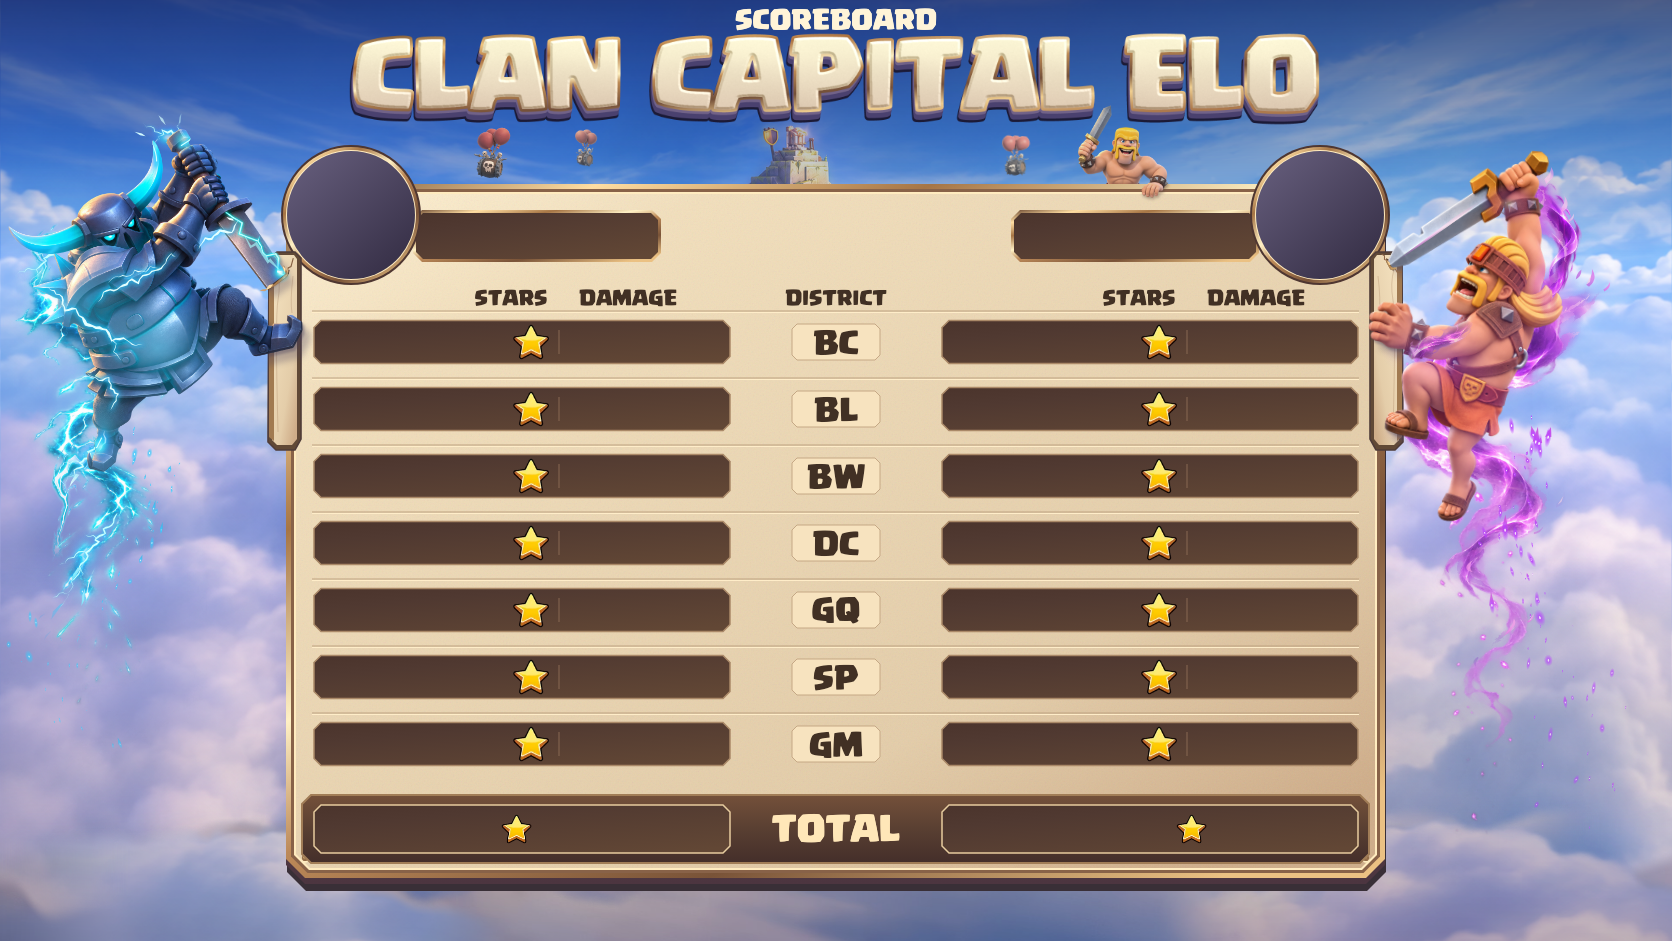
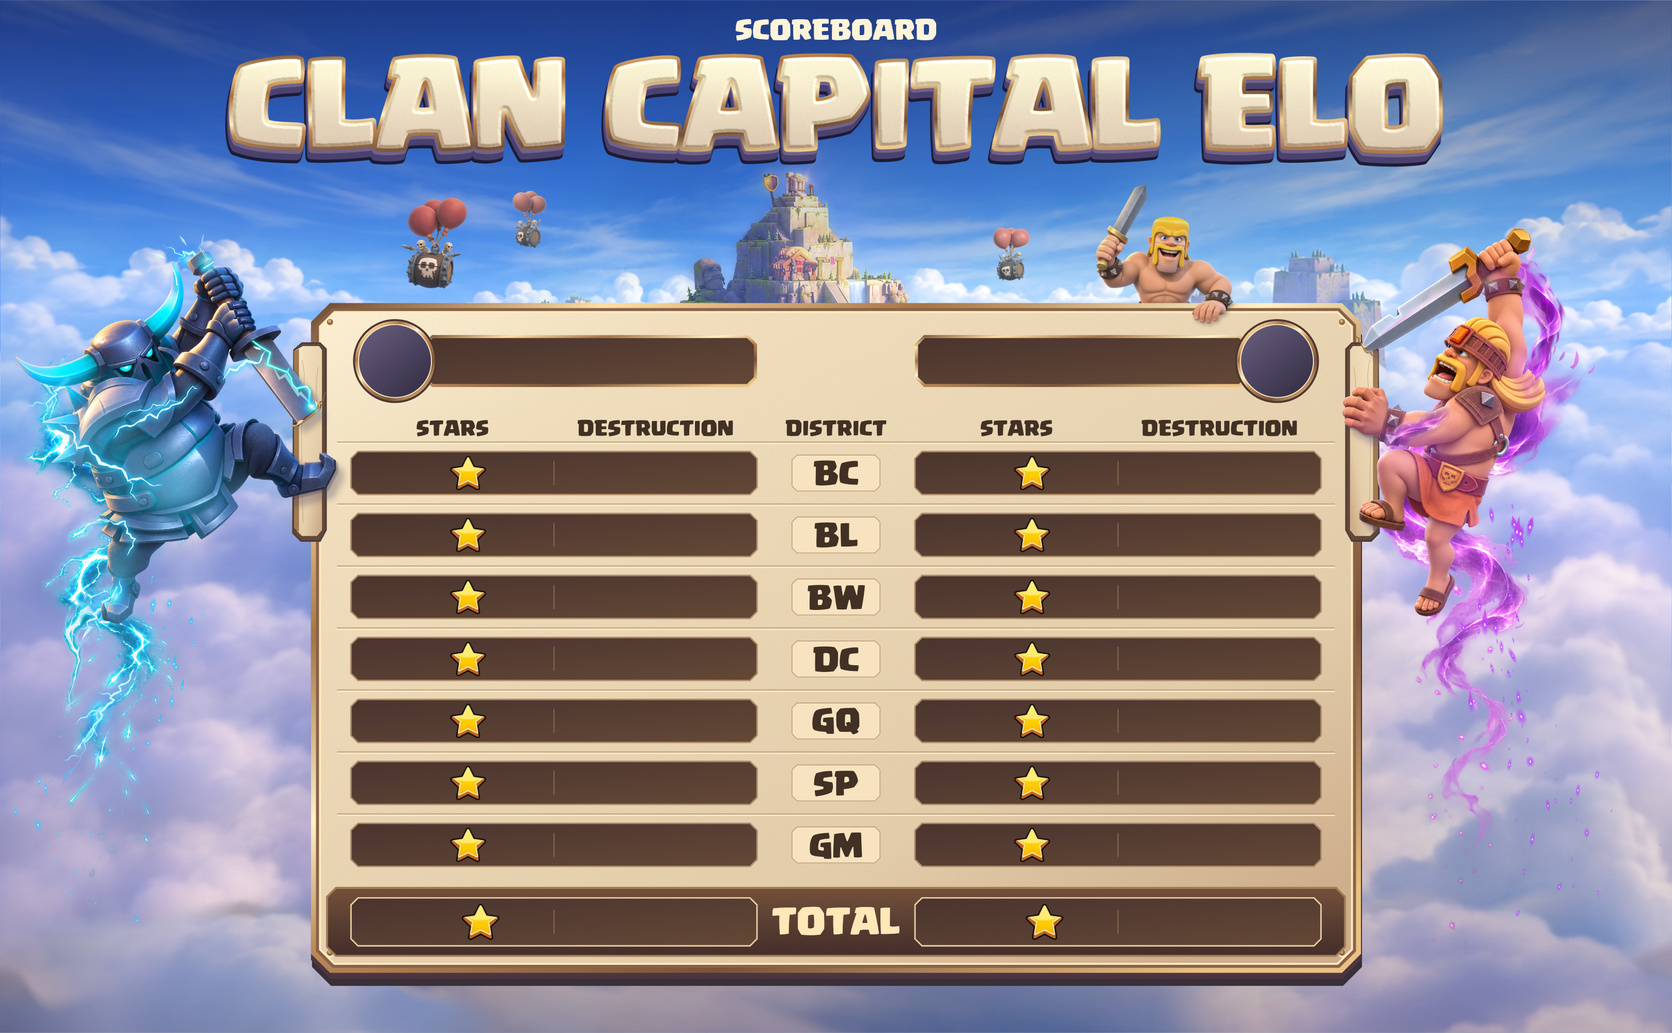
Update scoreboard

diff --git a/tests/test_final_scoreboard.py b/tests/test_final_scoreboard.py
@@ -12,14 +12,16 @@ from elo_bot.db.final_models import FinalResultSnapshot
 from elo_bot.features.finals.rendering import render_scoreboard
 
 
-# Interiors measured independently on the supplied clean artwork.
-NAME_PLATES = ((434, 214, 640, 258), (1032, 214, 1238, 258))
-ROW_Y = (342, 409, 476, 543, 610, 677, 744)
-SCORE_PLATES = tuple((x1, y - 22, x2, y + 22) for x1, x2 in
-    ((448, 532), (552, 704), (1076, 1160), (1180, 1332)) for y in ROW_Y)
-TOTAL_PLATES = ((425, 802, 509, 856), (533, 802, 685, 856),
-                (1102, 802, 1186, 856), (1204, 802, 1352, 856))
-AVATAR_BOXES = ((286, 150, 416, 280), (1255, 150, 1385, 280))
+NAME_PLATES = ((453, 336, 739, 390), (933, 336, 1219, 390))
+ROW_Y = (472, 535, 596, 659, 721, 783, 846)
+STAR_RIGHTS = (441, 1005)
+TOTAL_STAR_RIGHTS = (451.5, 1015.5)
+STAR_PLATES = tuple((right - 80, y - 22, right + 3, y + 22) for right in STAR_RIGHTS for y in ROW_Y)
+DESTRUCTION_PLATES = tuple((center - 80, y - 22, center + 81, y + 22)
+                           for center in (655, 1219) for y in ROW_Y)
+TOTAL_STAR_PLATES = ((371, 892, 455, 948), (935, 892, 1020, 948))
+TOTAL_DESTRUCTION_PLATES = ((565, 892, 746, 948), (1129, 892, 1310, 948))
+AVATAR_BOXES = ((359, 325, 431, 397), (1241, 325, 1313, 397))
 
 
 class TestFinalScoreboard(unittest.TestCase):
@@ -35,15 +37,22 @@ class TestFinalScoreboard(unittest.TestCase):
                 self.final.player_nicknames = names
                 with Image.open("assets/finals/elo_final_scoreboard.png") as template, \
                         Image.open(BytesIO(render_scoreboard(self.final, self.snapshot, {}))) as rendered:
-                    self.assertEqual(rendered.size, (1672, 941))
+                    self.assertEqual(rendered.size, (1672, 1033))
                     difference = ImageChops.difference(template.convert("RGB"), rendered).convert("L")
                     remaining = difference.copy()
-                    for plate in (*NAME_PLATES, *SCORE_PLATES, *TOTAL_PLATES):
+                    for plate in (*NAME_PLATES, *DESTRUCTION_PLATES, *TOTAL_DESTRUCTION_PLATES):
                         with self.subTest(plate=plate):
                             bounds = difference.crop(plate).getbbox()
                             self.assertIsNotNone(bounds)
                             left, top, right, bottom = bounds
                             self.assertLessEqual(abs((left + right) / 2 - (plate[2] - plate[0]) / 2), 1)
+                            self.assertLessEqual(abs((top + bottom) / 2 - (plate[3] - plate[1]) / 2), 1)
+                            remaining.paste(0, plate)
+                    for plate in (*STAR_PLATES, *TOTAL_STAR_PLATES):
+                        with self.subTest(plate=plate):
+                            bounds = difference.crop(plate).getbbox()
+                            self.assertIsNotNone(bounds)
+                            _left, top, _right, bottom = bounds
                             self.assertLessEqual(abs((top + bottom) / 2 - (plate[3] - plate[1]) / 2), 1)
                             remaining.paste(0, plate)
                     self.assertIsNone(remaining.getbbox(), "Ink must stay inside the measured plate interiors")
@@ -53,22 +62,23 @@ class TestFinalScoreboard(unittest.TestCase):
         draw_text = ImageDraw.ImageDraw.text
 
         def record(draw, position, text, *args, **kwargs):
-            drawn.append((draw.textbbox(position, text, font=kwargs["font"], stroke_width=1), text))
+            drawn.append((draw.textbbox(position, text, font=kwargs["font"], stroke_width=1,
+                                        anchor=kwargs.get("anchor")), text))
             return draw_text(draw, position, text, *args, **kwargs)
 
         with patch.object(ImageDraw.ImageDraw, "text", record):
             render_scoreboard(self.final, self.snapshot, {})
-        expected = (
-            ("SenFGr", *("2", "83%", "3", "100%", "2", "71%", "3", "100%", "3", "100%",
-                         "2", "58%", "3", "100%"), "18", "612%"),
-            ("Kaito", *("3", "100%") * 7, "21", "700%"),
-        )
-        self.assertEqual([text for _, text in drawn], [text for side in expected for text in side])
-        for side, offset in enumerate((0, 17)):
-            for row, y in enumerate(ROW_Y):
-                x, top, _, _ = drawn[offset + 1 + row * 2][0]
-                self.assertTrue((448 if side == 0 else 1076) <= x < (532 if side == 0 else 1160))
-                self.assertTrue(y - 22 <= top <= y + 22)
+        expected = (("2", "3", "2", "3", "3", "2", "3"),
+                    ("3", "3", "3", "3", "3", "3", "3"))
+        for side, values in enumerate(expected):
+            stars = sorted((bounds, text) for bounds, text in drawn
+                           if text.isdecimal() and abs(bounds[2] - STAR_RIGHTS[side]) <= 1)
+            self.assertEqual([text for _bounds, text in stars], list(values))
+            for (left, top, right, bottom), _text in stars[:-1]:
+                self.assertTrue(any(y - 22 <= top and bottom <= y + 22 for y in ROW_Y))
+            total = next((bounds for bounds, text in drawn if text == str((18, 21)[side])
+                          and abs(bounds[2] - TOTAL_STAR_RIGHTS[side]) <= 1), None)
+            self.assertIsNotNone(total)
 
     def test_winner_and_loser_colors_apply_to_names_scores_and_totals(self):
         for winner in ("1", "2"):
@@ -78,8 +88,10 @@ class TestFinalScoreboard(unittest.TestCase):
                 for side, user in enumerate(("1", "2")):
                     muted = (226, 207, 173)
                     normal = (255, 240, 213)
-                    plates = (NAME_PLATES[side], *SCORE_PLATES[side * 14:side * 14 + 14],
-                              *TOTAL_PLATES[side * 2:side * 2 + 2])
+                    score_plates = (*STAR_PLATES[side * 7:side * 7 + 7],
+                                    *DESTRUCTION_PLATES[side * 7:side * 7 + 7])
+                    total_plates = (TOTAL_STAR_PLATES[side], TOTAL_DESTRUCTION_PLATES[side])
+                    plates = (NAME_PLATES[side], *score_plates, *total_plates)
                     for index, plate in enumerate(plates):
                         active = (255, 240, 215) if index == 0 else normal
                         color, other = (active, muted) if user == winner else (muted, active)
@@ -94,13 +106,13 @@ class TestFinalScoreboard(unittest.TestCase):
             data = output.getvalue()
         with Image.open("assets/finals/elo_final_scoreboard.png") as template, Image.open(BytesIO(
                 render_scoreboard(self.final, self.snapshot, {"1": data, "2": b"invalid-avatar"}))) as image:
-            self.assertEqual(image.getpixel((351, 215)), (50, 167, 131))
-            self.assertEqual(image.getpixel((286, 150)), template.getpixel((286, 150)))
+            self.assertEqual(image.getpixel((395, 361)), (50, 167, 131))
+            self.assertEqual(image.getpixel((359, 325)), template.getpixel((359, 325)))
             self.assertEqual(image.crop(AVATAR_BOXES[1]).tobytes(), template.crop(AVATAR_BOXES[1]).tobytes())
             difference = ImageChops.difference(template.convert("RGB"), image)
-            self.assertEqual(difference.crop((270, 134, 432, 296)).getbbox(), (16, 16, 146, 146))
-            edge = image.crop((286, 150, 416, 151))
-            self.assertTrue(any(pixel != (50, 167, 131) and pixel != template.getpixel((286 + x, 150))
+            self.assertEqual(difference.crop((343, 309, 447, 413)).getbbox(), (16, 16, 88, 88))
+            edge = image.crop((359, 325, 431, 326))
+            self.assertTrue(any(pixel != (50, 167, 131) and pixel != template.getpixel((359 + x, 325))
                                 for x, pixel in enumerate(edge.getdata())))
 
     def test_missing_or_wrong_sized_templates_report_image_unavailability(self):

diff --git a/elo_bot/features/finals/rendering.py b/elo_bot/features/finals/rendering.py
@@ -19,17 +19,20 @@ FALLBACK_FONTS = (Path("/System/Library/Fonts/Supplemental/Arial Unicode.ttf"),
                   Path("/usr/share/fonts/opentype/noto/NotoSansCJK-Regular.ttc"),
                   Path("/usr/share/fonts/truetype/dejavu/DejaVuSans.ttf"))
 TEMPLATE_SIZE = (1672, 941)
+SCOREBOARD_TEMPLATE_SIZE = (1672, 1033)
 ENTRANT_CENTERS = ((404, 519), (404, 568), (404, 618), (404, 667),
                    (404, 718), (404, 769), (404, 817), (404, 866))
 SEMIFINAL_CENTERS = ((691, 554), (691, 651), (691, 743), (691, 838))
 FINAL_CENTERS = ((974, 612), (974, 784))
 CHAMPION_CENTER = (1258, 664)
-# Safe interiors measured on the 1672 x 941 scoreboard artwork.
-SCOREBOARD_NAMES = ((434, 214, 640, 258), (1032, 214, 1238, 258))
-SCOREBOARD_AVATARS = ((286, 150, 416, 280), (1255, 150, 1385, 280))
-SCOREBOARD_ROWS = (342, 409, 476, 543, 610, 677, 744)
-SCOREBOARD_COLUMNS = (((448, 532), (552, 704)), ((1076, 1160), (1180, 1332)))
-SCOREBOARD_TOTALS = (((425, 509), (533, 685)), ((1102, 1186), (1204, 1352)))
+SCOREBOARD_NAMES = ((453, 336, 739, 390), (933, 336, 1219, 390))
+SCOREBOARD_AVATARS = ((359, 325, 431, 397), (1241, 325, 1313, 397))
+SCOREBOARD_ROWS = (472, 535, 596, 659, 721, 783, 846)
+SCOREBOARD_STAR_RIGHTS = (441, 1005)
+SCOREBOARD_DESTRUCTION_CENTERS = (655.5, 1219.5)
+SCOREBOARD_TOTAL_CENTER = 920
+SCOREBOARD_TOTAL_STAR_RIGHTS = (451.5, 1015.5)
+SCOREBOARD_TOTAL_DESTRUCTION_CENTERS = (655.5, 1219.5)
 HEAD_TO_HEAD_NAMES = ((248, 805, 686, 871), (986, 805, 1424, 871))
 HEAD_TO_HEAD_AVATARS = ((82, 768, 223, 909), (1450, 768, 1591, 909))
 HEAD_TO_HEAD_SEED_BASELINES = ((282, 793), (1390, 793))
@@ -155,14 +158,15 @@ def render_scoreboard(final: EloFinal, snapshot: FinalResultSnapshot, avatars: d
     try:
         with Image.open(SCOREBOARD_TEMPLATE) as source:
             image = source.convert("RGB")
-        if image.size != TEMPLATE_SIZE:
+        if image.size != SCOREBOARD_TEMPLATE_SIZE:
             raise FinalError("The scoreboard template dimensions changed. The text result is still available.")
         draw = ImageDraw.Draw(image)
-        labels = []
+        centered_labels = []
+        star_labels = []
         for side, user in enumerate(snapshot.contestants):
             color = "#e2cfad" if user != snapshot.winner else "#fff0d5"
             name_color = "#e2cfad" if user != snapshot.winner else "#fff0d7"
-            labels.append((final.player_nicknames.get(user, user), SCOREBOARD_NAMES[side], name_color, 26))
+            centered_labels.append((final.player_nicknames.get(user, user), SCOREBOARD_NAMES[side], name_color, 25))
             if user in avatars:
                 paste_avatar(image, avatars[user], SCOREBOARD_AVATARS[side])
             stars, destruction = [], []
@@ -170,17 +174,24 @@ def render_scoreboard(final: EloFinal, snapshot: FinalResultSnapshot, avatars: d
                 score = snapshot.scores[user][index]
                 stars.append(get_stars(score))
                 destruction.append(get_destruction(score))
-                for value, (left, right) in zip((str(stars[-1]), f"{destruction[-1]}%"),
-                                               SCOREBOARD_COLUMNS[side], strict=True):
-                    labels.append((value, (left, y - 22, right, y + 22), color, 34))
-            for value, (left, right) in zip((str(sum(stars)), f"{sum(destruction)}%"),
-                                           SCOREBOARD_TOTALS[side], strict=True):
-                labels.append((value, (left, 802, right, 856), color, 36))
-        for label, box, color, size in labels:
+                star_labels.append((str(stars[-1]), SCOREBOARD_STAR_RIGHTS[side], y, color, 27))
+                center = SCOREBOARD_DESTRUCTION_CENTERS[side]
+                centered_labels.append((f"{destruction[-1]}%", (center - 80, y - 22, center + 80, y + 22),
+                                        color, 27))
+            star_labels.append((str(sum(stars)), SCOREBOARD_TOTAL_STAR_RIGHTS[side], SCOREBOARD_TOTAL_CENTER,
+                                color, 31))
+            center = SCOREBOARD_TOTAL_DESTRUCTION_CENTERS[side]
+            centered_labels.append((f"{sum(destruction)}%", (center - 90, SCOREBOARD_TOTAL_CENTER - 28,
+                                        center + 90, SCOREBOARD_TOTAL_CENTER + 28), color, 31))
+        for label, box, color, size in centered_labels:
             text, font = fitted_label(label, box[2] - box[0], size)
             left, top, right, bottom = draw.textbbox((0, 0), text, font=font, stroke_width=1)
             position = ((box[0] + box[2] - left - right) / 2, (box[1] + box[3] - top - bottom) / 2)
             draw.text(position, text, font=font, fill=color, stroke_width=1, stroke_fill="#3b2c2b")
+        for label, right, center, color, size in star_labels:
+            text, font = fitted_label(label, 80, size)
+            draw.text((right, center), text, font=font, fill=color, stroke_width=1, stroke_fill="#3b2c2b",
+                      anchor="rm")
         with image, BytesIO() as output:
             image.save(output, format="PNG")
             return output.getvalue()
